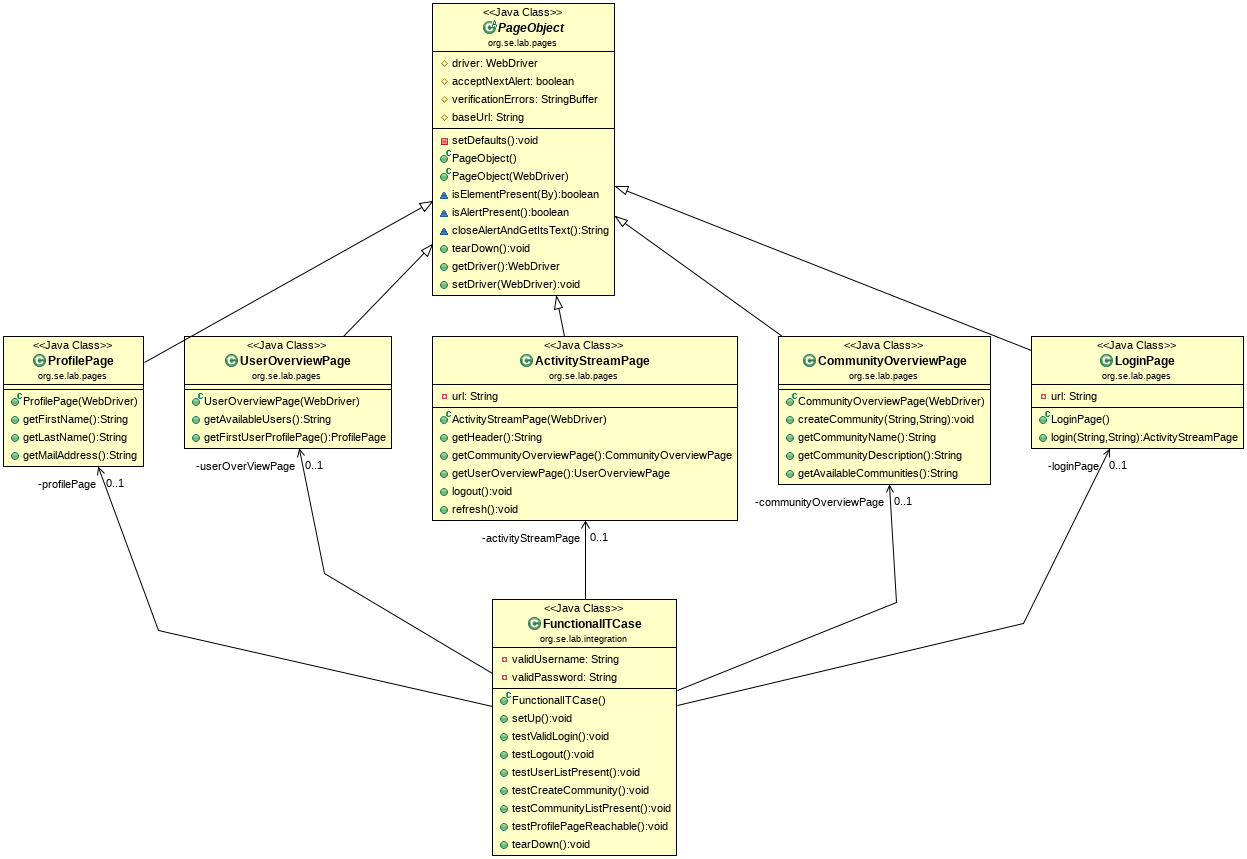
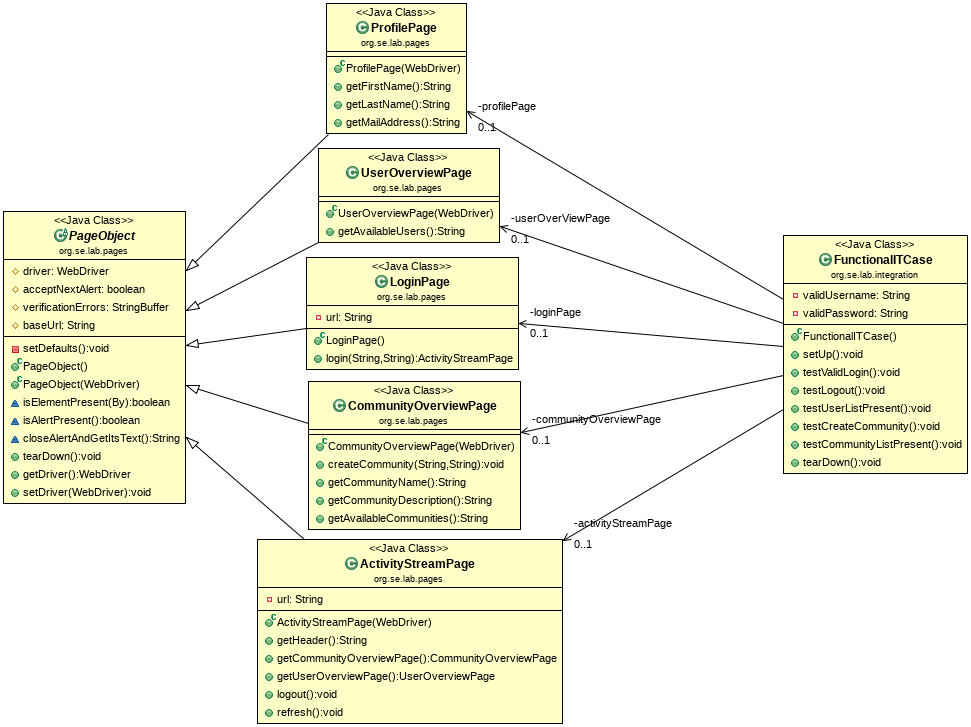
adapt UI tests to new design

diff --git a/src/test/java/org/se/lab/integration/FunctionalITCase.java b/src/test/java/org/se/lab/integration/FunctionalITCase.java
@@ -32,12 +32,12 @@ public class FunctionalITCase {
 		assertEquals("Activity Stream", activityStreamPage.getHeader());
 	}
 	
-	@Test(expected=org.openqa.selenium.NoSuchElementException.class)
+	@Test
 	public void testLogout() {
 		activityStreamPage.logout();
 		activityStreamPage.refresh();
 		
-		activityStreamPage.getHeader();
+		assertEquals("Login", activityStreamPage.getHeader());
 	}
 
 	@Test
@@ -45,8 +45,8 @@ public class FunctionalITCase {
 		userOverViewPage = activityStreamPage.getUserOverviewPage();
 
 		assertEquals(true, userOverViewPage.getAvailableUsers().contains("Baar"));
-		assertEquals(true, userOverViewPage.getAvailableUsers().contains("Berdiev"));
-		assertEquals(true, userOverViewPage.getAvailableUsers().contains("Mujic"));
+		assertEquals(true, userOverViewPage.getAvailableUsers().contains("Gumhold"));
+		assertEquals(true, userOverViewPage.getAvailableUsers().contains("Ionescu"));
 	}
 
 	@Test
@@ -68,15 +68,6 @@ public class FunctionalITCase {
 		assertEquals(true, communityOverviewPage.getAvailableCommunities().contains("Bachelorarbeit 1"));
 	}
 	
-	@Test
-	public void testProfilePageReachable() {
-		userOverViewPage = activityStreamPage.getUserOverviewPage();
-		profilePage = userOverViewPage.getFirstUserProfilePage();
-		
-		assertEquals("Alexander", profilePage.getFirstName());
-		assertEquals("Baar", profilePage.getLastName());
-		assertEquals("alexander.baar@edu.fh-joanneum.at", profilePage.getMailAddress());
-	}
 
 	@After
 	public void tearDown() throws Exception {

diff --git a/src/test/java/org/se/lab/pages/CommunityOverviewPage.java b/src/test/java/org/se/lab/pages/CommunityOverviewPage.java
@@ -9,11 +9,13 @@ public class CommunityOverviewPage extends PageObject {
 	}
 
 	public void createCommunity(String name, String description) throws Exception {
-		driver.findElement(By.id("j_idt4:communityName")).clear();
-		driver.findElement(By.id("j_idt4:communityName")).sendKeys(name);
-		driver.findElement(By.id("j_idt4:communityDescription")).clear();
-		driver.findElement(By.id("j_idt4:communityDescription")).sendKeys(description);
-		driver.findElement(By.id("j_idt4:j_idt30")).click();
+	    driver.findElement(By.cssSelector("button.btn.btn-success")).click();
+	    driver.findElement(By.id("input_j_idt24:j_idt26")).clear();
+	    driver.findElement(By.id("input_j_idt24:j_idt26")).sendKeys(name);
+	    driver.findElement(By.id("input_j_idt24:j_idt28")).clear();
+	    driver.findElement(By.id("input_j_idt24:j_idt28")).sendKeys(description);
+	    driver.findElement(By.id("j_idt24:j_idt31")).click();
+	    driver.findElement(By.cssSelector("button.btn.btn-success")).click();
 	}
 
 	public String getCommunityName() {
@@ -25,6 +27,6 @@ public class CommunityOverviewPage extends PageObject {
 	}
 
 	public String getAvailableCommunities() {
-		return driver.findElement(By.id("j_idt4:communities_content")).getText();
+		return driver.findElement(By.id("j_idt34:j_idt35")).getText();
 	}
 }

diff --git a/src/test/java/org/se/lab/pages/ActivityStreamPage.java b/src/test/java/org/se/lab/pages/ActivityStreamPage.java
@@ -12,23 +12,24 @@ public class ActivityStreamPage extends PageObject {
 	}
 
 	public String getHeader() {
-		return driver.findElement(By.cssSelector("h1")).getText();
+		return driver.findElement(By.cssSelector("h2")).getText();
 	}
 
 	public CommunityOverviewPage getCommunityOverviewPage() {
 		// navigate to communityoverview.xhtml
-		driver.findElement(By.id("j_idt4:j_idt12")).click();
+		driver.findElement(By.id("j_idt10:j_idt13")).click();
 		return new CommunityOverviewPage(driver);
 	}
 
 	public UserOverviewPage getUserOverviewPage() {
 		// navigate to useroverview.xhtml
-		driver.findElement(By.id("j_idt4:j_idt14")).click();
+		driver.findElement(By.id("j_idt10:j_idt14")).click();
 		return new UserOverviewPage(driver);
 	}
 	
 	public void logout() {
-		driver.findElement(By.id("j_idt4:j_idt22")).click();
+	    driver.findElement(By.id("dtLj_idt10:j_idt16")).click();
+	    driver.findElement(By.linkText("Logout")).click();
 	}
 	
 	public void refresh() {

diff --git a/src/test/java/org/se/lab/pages/LoginPage.java b/src/test/java/org/se/lab/pages/LoginPage.java
@@ -12,11 +12,11 @@ public class LoginPage extends PageObject {
 
 	public ActivityStreamPage login(String username, String password) {
 		driver.get(baseUrl + url);
-		driver.findElement(By.id("j_idt4:nameUser")).clear();
-		driver.findElement(By.id("j_idt4:nameUser")).sendKeys(username);
-		driver.findElement(By.id("j_idt4:password")).clear();
-		driver.findElement(By.id("j_idt4:password")).sendKeys(password);
-		driver.findElement(By.id("j_idt4:j_idt8")).click();
+		driver.findElement(By.id("input_loginForm:username")).clear();
+		driver.findElement(By.id("input_loginForm:username")).sendKeys(username);
+		driver.findElement(By.id("input_loginForm:password")).clear();
+		driver.findElement(By.id("input_loginForm:password")).sendKeys(password);
+		driver.findElement(By.id("loginForm:j_idt11")).click();
 		
 		return new ActivityStreamPage(driver);
 	}

diff --git a/src/test/java/org/se/lab/pages/UserOverviewPage.java b/src/test/java/org/se/lab/pages/UserOverviewPage.java
@@ -9,11 +9,7 @@ public class UserOverviewPage extends PageObject {
 	}
 
 	public String getAvailableUsers() {
-		return driver.findElement(By.id("j_idt4:prof_content")).getText();
+		return driver.findElement(By.id("j_idt25:j_idt26")).getText();
 	}
 	
-	public ProfilePage getFirstUserProfilePage() {
-		driver.findElement(By.cssSelector("span.ui-icon.ui-icon-search")).click();
-		return new ProfilePage(driver);
-	}
 }
